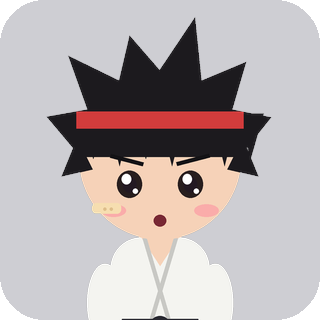
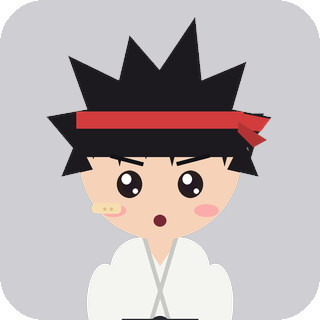
Add 16 genre characters (ninja, pirate, samurai, magic, idol, detective...) + group filter on the picker

Changed region(s): [[0.75, 0.3438, 0.8438, 0.4688]]

diff --git a/docs/index.html b/docs/index.html
@@ -41,6 +41,10 @@ a{color:var(--pink)}
 .face img{width:72px;height:72px;border-radius:14px;display:block;margin:0 auto 4px}
 .face b{display:block;font-size:.82rem}.face small{display:block;color:var(--soft);font-size:.68rem}
 .face.on{border-color:var(--pink);background:#2a1f2a}
+.chips{display:flex;gap:6px;flex-wrap:wrap;margin:10px 0 0}
+.chip{width:auto;padding:6px 12px;border-radius:999px;background:var(--field);color:var(--soft);border:1px solid var(--line);font-size:.8rem;font-weight:600}
+.chip:hover{filter:none;border-color:var(--pink)}
+.chip.on{background:var(--pink);color:#2a1219;border-color:var(--pink)}
 </style>
 </head>
 <body>
@@ -51,6 +55,7 @@ a{color:var(--pink)}
 <div class="card">
 <label>Characters</label>
 <p class="hint" style="margin:0">Tap a face for each side. In the script, <code>Mika:</code> means the left character and <code>Alex:</code> the right one, or write the character's own name.</p>
+<div class="chips" id="chips"></div>
 <div class="who"><b>Left</b><span id="nameL"></span></div><div class="strip" id="stripL"></div>
 <div class="who"><b>Right</b><span id="nameR"></span></div><div class="strip" id="stripR"></div>
 </div>
@@ -98,23 +103,26 @@ const get=k=>{try{return localStorage.getItem(k)||""}catch(e){return ""}};
 const set=(k,v)=>{try{v?localStorage.setItem(k,v):localStorage.removeItem(k)}catch(e){}};
 $("script").value=get("tjv_script")||SAMPLE;
 $("script").addEventListener("input",()=>{set("tjv_script",$("script").value);const a=castL+castR;readCast();if(a!==castL+castR)drawStrips()});
-let ROSTER=[{id:"mika",name:"Mika",tag:"Cheerful"},{id:"alex",name:"Alex",tag:"Friendly"}],castL="mika",castR="alex";
+let ROSTER=[{id:"mika",name:"Mika",tag:"Cheerful",group:"Everyday"},{id:"alex",name:"Alex",tag:"Friendly",group:"Everyday"}],castL="mika",castR="alex",GROUP="All";
 function readCast(){const m=$("script").value.match(/^cast\s*:\s*(.+)$/im);if(!m)return;const p=m[1].toLowerCase().split(/[\s,&]+/).filter(Boolean);if(p[0])castL=p[0];if(p[1])castR=p[1]}
 function writeCast(){let t=$("script").value;const line=`cast: ${castL}, ${castR}`;
   if(/^cast\s*:.*$/im.test(t))t=t.replace(/^cast\s*:.*$/im,line);
   else if(/^title\s*:.*$/im.test(t))t=t.replace(/^(title\s*:.*)$/im,"$1\n"+line);
   else t=line+"\n"+t;
   $("script").value=t;set("tjv_script",t)}
+function drawChips(){const box=$("chips");box.innerHTML="";
+  for(const g of ["All",...new Set(ROSTER.map(r=>r.group||"Everyday"))]){const b=document.createElement("button");b.type="button";b.className="chip"+(g===GROUP?" on":"");b.textContent=g;
+    b.onclick=()=>{GROUP=g;drawChips();drawStrips()};box.appendChild(b)}}
 function drawStrips(){
   for(const [side,id,nm] of [["L","stripL","nameL"],["R","stripR","nameR"]]){
     const cur=side==="L"?castL:castR,box=$(id),sx=box.scrollLeft;box.innerHTML="";
-    for(const r of ROSTER){const b=document.createElement("button");b.type="button";b.className="face"+(r.id===cur?" on":"");
+    for(const r of ROSTER.filter(r=>GROUP==="All"||(r.group||"Everyday")===GROUP||r.id===cur)){const b=document.createElement("button");b.type="button";b.className="face"+(r.id===cur?" on":"");
       b.innerHTML=`<img alt="" src="characters/${r.id}.png" onerror="this.style.visibility='hidden'"><b>${r.name}</b><small>${r.tag||""}</small>`;
       b.onclick=()=>{if(side==="L")castL=r.id;else castR=r.id;writeCast();drawStrips()};box.appendChild(b)}
     box.scrollLeft=sx;const me=ROSTER.find(r=>r.id===cur);$(nm).textContent=me?me.name:cur}
   if(castL===castR)$("nameR").textContent+="  (pick two different characters)"}
-fetch("characters/roster.json").then(r=>r.ok?r.json():null).then(j=>{if(j&&j.length){ROSTER=j;drawStrips()}}).catch(()=>{});
-readCast();drawStrips();
+fetch("characters/roster.json").then(r=>r.ok?r.json():null).then(j=>{if(j&&j.length){ROSTER=j;drawChips();drawStrips()}}).catch(()=>{});
+readCast();drawChips();drawStrips();
 $("token").value=get("tjv_token");
 if(!get("tjv_token"))$("setup").open=true;
 $("saveTok").onclick=()=>{set("tjv_token",$("token").value.trim());say("Token saved in this browser.","ok")};

diff --git a/tinyvideo.py b/tinyvideo.py
@@ -15,7 +15,7 @@ TABLE_TOP, CARD_Y = 885, 1040
 # ---------- characters ----------
 # Two slots on screen: "Mika" = left, "Alex" = right. Which character stands in a slot comes from `cast: left, right` in the story.
 CHAR_DEFAULTS = dict(hair_style="short", eye=(55, 35, 42), pupil=False, outfit="plain", acc=(), acc_col=(226, 92, 92), mark=None, brow=None,
-                     trim=(250, 250, 250), pitch=None, tag="")
+                     trim=(250, 250, 250), pitch=None, tag="", arm=None, group="Everyday")
 F_VOICE, M_VOICE = "ja-JP-NanamiNeural", "ja-JP-KeitaNeural"
 
 
@@ -53,7 +53,44 @@ ROSTER = {
                    eye=(140, 96, 190), pupil=True, outfit="kimono", acc_col=(236, 200, 120), mark="mole", tag="Elegant"),
     "daichi": char("Daichi", voice=M_VOICE, pitch="-22Hz", hair=(112, 78, 58), skin=(240, 202, 174), top=(120, 140, 128), accent=(90, 120, 104), hair_style="short",
                    outfit="hoodie", acc=("headphones",), acc_col=(50, 50, 60), mark="stubble", tag="Chill"),
+    "kage": char("Kage", voice=M_VOICE, pitch="-6Hz", hair=(24, 28, 48), skin=(246, 212, 186), top=(44, 48, 72), accent=(60, 70, 110), hair_style="short",
+                 eye=(220, 190, 60), pupil=True, outfit="ninja", acc=("headband", "scarf"), acc_col=(196, 60, 60), brow="sharp", tag="Shadow"),
+    "sayo": char("Sayo", voice=F_VOICE, pitch="+6Hz", hair=(70, 40, 100), skin=(255, 228, 212), top=(66, 50, 96), accent=(130, 80, 170), hair_style="ponytail",
+                 eye=(190, 70, 150), pupil=True, outfit="ninja", acc=("headband", "scarf"), acc_col=(236, 130, 170), brow="sharp", tag="Swift"),
+    "rex": char("Rex", voice=M_VOICE, pitch="-12Hz", hair=(34, 30, 36), skin=(240, 204, 176), top=(250, 246, 236), accent=(176, 44, 56), hair_style="short",
+                eye=(60, 90, 140), pupil=True, outfit="pirate", acc=("piratehat", "cape"), acc_col=(232, 190, 80), mark="scar", tag="Captain"),
+    "marin": char("Marin", voice=F_VOICE, pitch="+14Hz", hair=(70, 196, 200), skin=(255, 226, 208), top=(250, 246, 236), accent=(40, 150, 170), hair_style="bob",
+                  eye=(40, 140, 170), pupil=True, outfit="pirate", acc=("bandana",), acc_col=(250, 200, 70), tag="Navigator"),
+    "bolt": char("Bolt", voice=M_VOICE, pitch="+2Hz", hair=(92, 166, 92), skin=(244, 206, 178), top=(70, 110, 170), accent=(60, 100, 160), hair_style="short",
+                 outfit="overalls", trim=(250, 210, 70), arm=(250, 210, 70), acc=("bandana",), acc_col=(220, 80, 70), mark="freckles", tag="Mechanic"),
+    "takeru": char("Takeru", voice=M_VOICE, pitch="-16Hz", hair=(26, 24, 30), skin=(244, 208, 182), top=(36, 48, 86), accent=(60, 76, 130), hair_style="topknot",
+                   eye=(50, 40, 40), pupil=True, outfit="samurai", acc_col=(200, 60, 60), mark="scar", brow="sharp", tag="Samurai"),
+    "tomoe": char("Tomoe", voice=F_VOICE, pitch="-6Hz", hair=(36, 44, 86), skin=(255, 230, 216), top=(128, 40, 64), accent=(190, 70, 100), hair_style="braid",
+                  eye=(200, 60, 70), pupil=True, outfit="samurai", acc_col=(240, 230, 220), brow="sharp", tag="Blade"),
+    "luna": char("Luna", voice=F_VOICE, pitch="+18Hz", hair=(160, 160, 250), skin=(255, 230, 218), top=(250, 196, 226), accent=(190, 120, 220), hair_style="long",
+                 eye=(120, 110, 230), pupil=True, outfit="magical", acc=("bigbow", "wand"), acc_col=(110, 150, 240), tag="Star"),
+    "hoshi": char("Hoshi", voice=F_VOICE, pitch="+24Hz", hair=(255, 210, 90), skin=(255, 228, 212), top=(255, 244, 170), accent=(240, 170, 40), hair_style="twintails",
+                  eye=(240, 150, 50), pupil=True, outfit="magical", acc=("starclip", "wand"), acc_col=(250, 120, 160), tag="Sparkle"),
+    "eldo": char("Eldo", voice=M_VOICE, pitch="-30Hz", hair=(236, 236, 242), skin=(246, 214, 190), top=(80, 64, 150), accent=(100, 80, 180), hair_style="short",
+                 eye=(90, 90, 140), pupil=True, outfit="robe", acc=("wizardhat", "mustache"), acc_col=(240, 200, 90), tag="Wizard"),
+    "mia": char("Mia", voice=F_VOICE, pitch="+16Hz", hair=(46, 34, 74), skin=(255, 230, 218), top=(60, 46, 110), accent=(90, 60, 150), hair_style="bob",
+                eye=(160, 100, 230), pupil=True, outfit="robe", acc=("wizardhat",), acc_col=(250, 210, 100), tag="Witch"),
+    "noa": char("Noa", voice=F_VOICE, pitch="+12Hz", hair=(120, 222, 232), skin=(255, 230, 216), top=(250, 250, 255), accent=(60, 190, 210), hair_style="long",
+                eye=(60, 170, 200), pupil=True, outfit="stage", acc=("headset", "starclip"), acc_col=(250, 100, 170), tag="Idol"),
+    "rei": char("Rei", voice=M_VOICE, pitch="-4Hz", hair=(58, 46, 44), skin=(248, 214, 190), top=(162, 128, 92), accent=(110, 86, 64), hair_style="short",
+                eye=(70, 60, 50), pupil=True, outfit="trench", acc=("flatcap",), acc_col=(150, 50, 56), tag="Detective"),
+    "mei": char("Mei", voice=F_VOICE, pitch="-2Hz", hair=(88, 58, 50), skin=(252, 222, 204), top=(250, 250, 252), accent=(60, 170, 170), hair_style="bun",
+                eye=(70, 100, 90), pupil=True, outfit="labcoat", trim=(60, 170, 170), acc=("glasses",), acc_col=(60, 170, 170), tag="Scientist"),
+    "gen": char("Gen", voice=M_VOICE, pitch="-30Hz", hair=(232, 232, 236), skin=(240, 206, 180), top=(110, 84, 60), accent=(130, 100, 70), hair_style="topknot",
+                eye=(60, 50, 50), pupil=True, outfit="kimono", acc=("mustache",), acc_col=(60, 50, 44), tag="Sensei"),
+    "zed": char("Zed", voice=M_VOICE, pitch="+4Hz", hair=(70, 232, 150), skin=(246, 212, 188), top=(40, 40, 48), accent=(230, 60, 150), hair_style="spiky",
+                eye=(230, 60, 150), pupil=True, outfit="jacket", trim=(240, 240, 246), acc=("headphones",), acc_col=(230, 60, 150), brow="sharp", tag="Rocker"),
 }
+GROUPS = {"Traditional": ("yuki", "hana", "sakuya", "ryu", "takeru", "tomoe", "gen"), "Ninja": ("kage", "sayo"), "Pirate": ("rex", "marin", "bolt", "kai"),
+          "Magic": ("luna", "hoshi", "eldo", "mia"), "Other": ("noa", "zed", "rei", "mei")}
+for _g, _ids in GROUPS.items():
+    for _i in _ids:
+        ROSTER[_i]["group"] = _g
 for _k, _v in ROSTER.items():
     _v["id"] = _k
 CHARS = {"Mika": dict(ROSTER["mika"], x=16), "Alex": dict(ROSTER["alex"], x=W - 16 - int(560 * CHAR_SCALE))}
@@ -347,6 +384,9 @@ def render_char(c, mouth, blink):
     ell = lambda box, fill: d.ellipse(P(*box), fill=fill)
     shade = lambda col, f: tuple(int(v * f) for v in col)
     line = lambda pts, fill, wd: d.line(P(*pts), fill=fill, width=max(1, int(wd * S)))
+    lite = lambda col, f: tuple(min(255, int(v * f)) for v in col)
+    star = lambda cx, cy, r: [v for i in range(10) for v in (cx + (r if i % 2 == 0 else r * 0.45) * math.cos(math.radians(-90 + 36 * i)),
+                                                              cy + (r if i % 2 == 0 else r * 0.45) * math.sin(math.radians(-90 + 36 * i)))]
     ink, hair, skin, top, acc, det = (70, 45, 48), c["hair"], c["skin"], c["top"], c["accent"], c["acc_col"]
     hs, outfit, accs, white = c["hair_style"], c["outfit"], set(c["acc"]), (255, 255, 255)
     # hair that sits behind the body
@@ -358,6 +398,10 @@ def render_char(c, mouth, blink):
         ell((372, 170, 522, 570), hair)
     elif hs == "bob":
         d.rounded_rectangle(P(112, 170, 448, 440), radius=int(70 * S), fill=hair)
+    elif hs == "braid":
+        d.rounded_rectangle(P(130, 170, 430, 470), radius=int(70 * S), fill=hair)
+    if "cape" in accs:
+        d.polygon(P(150, 466, 410, 466, 458, 716, 102, 716), fill=shade(acc, 0.7))
     # body + outfit
     if outfit == "hoodie":
         ell((198, 428, 362, 522), shade(top, 0.8))
@@ -380,6 +424,54 @@ def render_char(c, mouth, blink):
         for by in (530, 574, 618):
             ell((248, by - 8, 264, by + 8), (190, 190, 200)); ell((296, by - 8, 312, by + 8), (190, 190, 200))
         d.polygon(P(236, 452, 324, 452, 280, 524), fill=det)
+    elif outfit == "ninja":
+        d.polygon(P(256, 452, 280, 490, 304, 452), fill=skin)
+        line((200, 468, 360, 676), lite(top, 1.7), 9); line((360, 468, 200, 676), lite(top, 1.7), 9)
+        d.rectangle(P(185, 612, 375, 640), fill=det)
+    elif outfit == "pirate":
+        d.polygon(P(190, 466, 246, 452, 262, 690, 196, 690), fill=acc); d.polygon(P(370, 466, 314, 452, 298, 690, 364, 690), fill=acc)
+        d.polygon(P(250, 452, 280, 522, 310, 452), fill=skin)
+        d.rectangle(P(185, 612, 375, 640), fill=det); ell((340, 606, 366, 646), shade(det, 0.8))
+    elif outfit == "magical":
+        d.polygon(P(262, 452, 280, 486, 298, 452), fill=skin)
+        for x in range(205, 360, 30):
+            ell((x - 18, 440, x + 18, 480), (255, 255, 255))
+        d.polygon(P(280, 548, 226, 520, 226, 576), fill=det); d.polygon(P(280, 548, 334, 520, 334, 576), fill=det); ell((264, 532, 296, 564), shade(det, 0.85))
+        d.rectangle(P(192, 652, 368, 690), fill=(255, 255, 255))
+    elif outfit == "robe":
+        d.polygon(P(256, 452, 280, 506, 304, 452), fill=skin)
+        line((246, 452, 276, 650), det, 9); line((314, 452, 284, 650), det, 9)
+        for sx, sy in ((214, 540), (344, 522), (236, 626), (326, 640), (290, 570)):
+            ell((sx - 6, sy - 6, sx + 6, sy + 6), (255, 236, 150))
+        d.rectangle(P(185, 604, 375, 622), fill=det)
+    elif outfit == "trench":
+        d.polygon(P(256, 452, 280, 548, 304, 452), fill=(250, 250, 246)); d.polygon(P(264, 452, 280, 486, 296, 452), fill=skin)
+        d.polygon(P(274, 490, 286, 490, 289, 560, 280, 574, 271, 560), fill=det)
+        d.polygon(P(222, 440, 258, 452, 248, 530), fill=shade(top, 0.78)); d.polygon(P(338, 440, 302, 452, 312, 530), fill=shade(top, 0.78))
+        d.rectangle(P(185, 604, 375, 630), fill=shade(top, 0.65)); d.rectangle(P(268, 602, 292, 632), fill=(236, 200, 100))
+        ell((236, 560, 248, 572), (110, 86, 64)); ell((312, 560, 324, 572), (110, 86, 64))
+    elif outfit == "overalls":
+        d.polygon(P(190, 452, 370, 452, 370, 524, 190, 524), fill=c["trim"])
+        d.polygon(P(236, 452, 262, 452, 258, 536, 230, 536), fill=top); d.polygon(P(324, 452, 298, 452, 302, 536, 330, 536), fill=top)
+        d.polygon(P(262, 452, 280, 482, 298, 452), fill=skin)
+        d.rounded_rectangle(P(240, 580, 320, 640), radius=int(10 * S), fill=shade(top, 0.82))
+        ell((236, 520, 252, 536), (240, 200, 70)); ell((308, 520, 324, 536), (240, 200, 70))
+    elif outfit == "labcoat":
+        d.polygon(P(250, 452, 310, 452, 300, 690, 260, 690), fill=c["trim"]); d.polygon(P(264, 452, 280, 486, 296, 452), fill=skin)
+        d.polygon(P(224, 444, 256, 452, 262, 548), fill=shade(top, 0.92)); d.polygon(P(336, 444, 304, 452, 298, 548), fill=shade(top, 0.92))
+        line((256, 452, 262, 690), (208, 208, 218), 4); line((304, 452, 298, 690), (208, 208, 218), 4)
+        d.rectangle(P(206, 610, 250, 660), outline=(208, 208, 218), width=max(1, int(3 * S))); line((222, 596, 222, 626), det, 6)
+    elif outfit == "stage":
+        d.polygon(P(262, 452, 280, 500, 298, 452), fill=skin)
+        line((190, 560, 300, 462), det, 9); line((190, 640, 372, 462), det, 9); line((260, 690, 372, 560), det, 9)
+        d.polygon(P(280, 474, 244, 452, 244, 496), fill=det); d.polygon(P(280, 474, 316, 452, 316, 496), fill=det); ell((268, 460, 292, 488), shade(det, 0.8))
+        for sx, sy in ((228, 620), (332, 600), (306, 660)):
+            d.polygon(P(*star(sx, sy, 12)), fill=(255, 236, 150))
+    elif outfit == "samurai":
+        d.polygon(P(250, 452, 280, 506, 310, 452), fill=skin)
+        line((246, 452, 296, 580), (250, 244, 236), 10); line((314, 452, 264, 580), (250, 244, 236), 10)
+        line((196, 470, 372, 640), det, 14)
+        d.rectangle(P(185, 626, 375, 654), fill=shade(top, 0.6)); ell((262, 618, 298, 662), det)
     else:
         d.polygon(P(245, 452, 280, 505, 315, 452), fill=skin)                          # neckline
         if outfit == "kimono":
@@ -393,8 +485,13 @@ def render_char(c, mouth, blink):
             d.polygon(P(280, 548, 236, 526, 236, 572), fill=det); d.polygon(P(280, 548, 324, 526, 324, 572), fill=det); ell((264, 534, 296, 562), shade(det, 0.85))
         elif outfit == "hoodie":
             line((262, 505, 258, 565), (250, 250, 250), 5); line((298, 505, 302, 565), (250, 250, 250), 5)
-    ell((140, 500, 210, 650), top); ell((350, 500, 420, 650), top)                     # arms
+    arm = c["arm"] or top
+    ell((140, 500, 210, 650), arm); ell((350, 500, 420, 650), arm)                     # arms
     ell((148, 625, 205, 675), skin); ell((355, 625, 412, 675), skin)                   # hands
+    if outfit == "samurai":
+        d.rounded_rectangle(P(122, 468, 212, 538), radius=int(22 * S), fill=shade(det, 0.92)); d.rounded_rectangle(P(348, 468, 438, 538), radius=int(22 * S), fill=shade(det, 0.92))
+        for yy in (488, 508):
+            line((130, yy, 204, yy), shade(top, 0.8), 4); line((356, yy, 430, yy), shade(top, 0.8), 4)
     if "scarf" in accs:
         d.rounded_rectangle(P(196, 438, 364, 486), radius=int(24 * S), fill=det); d.polygon(P(326, 470, 372, 482, 362, 614, 322, 602), fill=shade(det, 0.88))
     ell((125, 145, 435, 455), skin)                                                    # head
@@ -417,7 +514,12 @@ def render_char(c, mouth, blink):
         for x in range(128, 430, 50):
             d.polygon(P(x, 215, x + 50, 215, x + 25, 302 + (14 if (x // 50) % 2 else 0)), fill=hair)
         d.polygon(P(122, 262, 92, 336, 152, 322), fill=hair); d.polygon(P(438, 262, 468, 336, 408, 322), fill=hair)
-    else:                                                                              # hime, twintails, bun, ponytail, bob: blunt bangs
+    elif hs == "topknot":
+        ell((240, 52, 320, 136), hair); d.rectangle(P(256, 120, 304, 138), fill=det)
+        for x in range(135, 420, 58):
+            d.polygon(P(x, 225, x + 58, 225, x + 29, 268), fill=hair)
+        ell((112, 250, 152, 350), hair); ell((408, 250, 448, 350), hair)
+    else:                                                                              # hime, twintails, bun, ponytail, bob, braid: blunt bangs
         d.rounded_rectangle(P(132, 200, 428, 302), radius=int(26 * S), fill=hair)
         if hs == "hime":
             ell((108, 250, 170, 570), hair); ell((390, 250, 452, 570), hair)
@@ -429,6 +531,10 @@ def render_char(c, mouth, blink):
             ell((112, 230, 160, 380), hair); ell((372, 196, 424, 248), det)
         elif hs == "bob":
             ell((112, 250, 170, 440), hair); ell((390, 250, 448, 440), hair)
+        elif hs == "braid":
+            for k in range(7):
+                ell((384 - k * 3, 300 + k * 52, 448 - k * 3, 366 + k * 52), hair)
+            ell((372, 640, 424, 690), det)
     for ex in (222, 338):                                                              # eyes
         if blink:
             d.arc(P(ex - 26, 335, ex + 26, 375), 200, 340, fill=ink, width=int(6 * S))
@@ -445,6 +551,8 @@ def render_char(c, mouth, blink):
             ell((fx - 4, fy - 4, fx + 4, fy + 4), (196, 120, 100))
     elif mk == "bandaid":
         d.rounded_rectangle(P(150, 386, 206, 406), radius=int(8 * S), fill=(246, 222, 176)); ell((172, 394, 178, 400), (222, 190, 140)); ell((184, 394, 190, 400), (222, 190, 140))
+    elif mk == "scar":
+        line((168, 350, 206, 420), (196, 110, 110), 6); line((176, 372, 200, 366), (196, 110, 110), 4); line((184, 394, 210, 386), (196, 110, 110), 4)
     elif mk == "mole":
         ell((366, 398, 376, 408), (90, 60, 60))
     elif mk == "stubble":
@@ -464,6 +572,7 @@ def render_char(c, mouth, blink):
         ell((340, 165, 392, 215), acc); ell((355, 180, 377, 200), (255, 240, 200))
     if "headband" in accs:
         d.rectangle(P(121, 212, 439, 244), fill=det)
+        d.polygon(P(430, 214, 490, 226, 472, 250, 430, 244), fill=det); d.polygon(P(430, 232, 484, 266, 458, 280, 428, 250), fill=shade(det, 0.85))
     if "goggles" in accs:
         line((122, 210, 438, 210), (60, 62, 72), 22)
         ell((196, 142, 274, 216), (60, 62, 72)); ell((206, 152, 264, 206), (140, 224, 244)); ell((286, 142, 364, 216), (60, 62, 72)); ell((296, 152, 354, 206), (140, 224, 244))
@@ -484,6 +593,32 @@ def render_char(c, mouth, blink):
     if "headphones" in accs:
         d.arc(P(112, 118, 448, 440), 200, 340, fill=det, width=int(18 * S))
         ell((96, 268, 164, 372), det); ell((396, 268, 464, 372), det); ell((108, 284, 152, 356), acc); ell((408, 284, 452, 356), acc)
+    if "piratehat" in accs:
+        d.polygon(P(112, 200, 152, 120, 280, 66, 408, 120, 448, 200, 360, 170, 280, 152, 200, 170), fill=(34, 32, 38))
+        d.line(P(112, 200, 200, 170, 280, 152, 360, 170, 448, 200), fill=(232, 190, 80), width=max(1, int(6 * S)))
+        d.polygon(P(404, 116, 482, 36, 464, 114), fill=acc)
+    if "bandana" in accs:
+        d.pieslice(P(120, 134, 440, 358), 180, 360, fill=det); d.rectangle(P(121, 226, 439, 250), fill=shade(det, 0.82))
+        for bx, by in ((190, 190), (250, 166), (310, 172), (370, 196), (222, 236)):
+            ell((bx - 7, by - 7, bx + 7, by + 7), (255, 255, 255))
+        ell((418, 218, 470, 262), det); d.polygon(P(452, 232, 496, 274, 472, 282, 440, 252), fill=det)
+    if "eyepatch" in accs:
+        line((126, 296, 194, 330), (30, 28, 34), 5); line((250, 330, 436, 290), (30, 28, 34), 5); ell((190, 312, 254, 390), (30, 28, 34))
+    if "wizardhat" in accs:
+        d.polygon(P(150, 184, 300, 14, 412, 184), fill=acc); ell((96, 150, 464, 214), shade(acc, 0.82))
+        d.polygon(P(195.9, 132, 377.7, 132, 396.2, 160, 171.2, 160), fill=det); d.polygon(P(*star(290, 100, 18)), fill=(255, 236, 150))
+    if "flatcap" in accs:
+        d.pieslice(P(126, 120, 434, 330), 180, 360, fill=acc); ell((170, 196, 420, 238), shade(acc, 0.8)); ell((268, 118, 292, 138), shade(acc, 0.8))
+    if "bigbow" in accs:
+        d.polygon(P(330, 152, 262, 108, 262, 196), fill=det); d.polygon(P(330, 152, 398, 108, 398, 196), fill=det); ell((314, 134, 346, 170), shade(det, 0.8))
+    if "starclip" in accs:
+        d.polygon(P(*star(150, 196, 26)), fill=(255, 230, 120)); d.polygon(P(*star(410, 196, 26)), fill=(255, 230, 120))
+    if "headset" in accs:
+        line((132, 312, 150, 420), (50, 50, 60), 6); line((150, 420, 196, 424), (50, 50, 60), 6); ell((190, 412, 214, 436), (50, 50, 60))
+    if "mustache" in accs:
+        ell((236, 384, 282, 402), hair); ell((278, 384, 324, 402), hair)
+    if "wand" in accs:
+        line((386, 652, 432, 540), (200, 160, 70), 8); d.polygon(P(*star(436, 516, 36)), fill=(255, 226, 110))
     return im.resize((int(560 * CHAR_SCALE), int(760 * CHAR_SCALE)), Image.LANCZOS)
 
 

diff --git a/portraits.py b/portraits.py
@@ -30,7 +30,7 @@ def main():
     roster, tiles = [], []
     for cid, c in T.ROSTER.items():
         p = portrait(c); p.save(os.path.join(OUT, cid + ".png"), optimize=True); tiles.append((c["label"], p))
-        roster.append(dict(id=cid, name=c["label"], tag=c["tag"], voice="male" if c["voice"] == T.M_VOICE else "female"))
+        roster.append(dict(id=cid, name=c["label"], tag=c["tag"], group=c["group"], voice="male" if c["voice"] == T.M_VOICE else "female"))
     with open(os.path.join(OUT, "roster.json"), "w", encoding="utf-8") as f:
         json.dump(roster, f, ensure_ascii=False, indent=1)
     cols, tw, pad = 5, 240, 16

diff --git a/README.md b/README.md
@@ -36,8 +36,15 @@ Fallen petals / leaves also lie on the ground. Weather words in an outdoor story
 Preview one frame: `python tinyvideo.py stories/xxx.txt --dummy-audio --preview out.png`. Contact sheets: `docs/new-backgrounds.jpg` and `docs/new-backgrounds-2.jpg`.
 
 ## Characters
-15 original anime-style characters (all drawn in code): Mika, Alex, Haru, Sora, Rin, Yuki, Kenji, Hana, Ryu, Kai, Aoi, Emi, Taro, Sakuya, Daichi. Portraits: `docs/characters.jpg`.
-Pick two on the site, or add a line to the story: `cast: haru, rin` (left, right).
-`Mika:` always means the left character and `Alex:` the right one; you can also write the character's own name (`Haru: ...`).
-Each character has their own look, name tag and voice pitch (the two natural Japanese voices, shifted up or down).
+31 original anime-style characters, all drawn in code. Portraits: `docs/characters.jpg`.
+- **Everyday:** Mika, Alex, Haru, Sora, Rin, Kenji, Aoi, Emi, Taro, Daichi
+- **Traditional:** Yuki, Hana, Sakuya, Ryu, Takeru (samurai), Tomoe (blade), Gen (sensei)
+- **Ninja:** Kage, Sayo
+- **Pirate:** Rex (captain), Marin (navigator), Bolt (mechanic), Kai (explorer)
+- **Magic:** Luna, Hoshi (magical girls), Eldo (wizard), Mia (witch)
+- **Other:** Noa (idol), Zed (rocker), Rei (detective), Mei (scientist)
+
+Pick two on the site (filter by group), or add a line to the story: `cast: kage, sayo` (left, right).
+`Mika:` always means the left character and `Alex:` the right one; you can also write the character's own name (`Kage: ...`).
+Each has their own look, name tag and voice pitch (the two natural Japanese voices, shifted up or down).
 Add your own: copy a `char(...)` entry in `ROSTER` (tinyvideo.py) and run `python portraits.py` to refresh the portraits.
